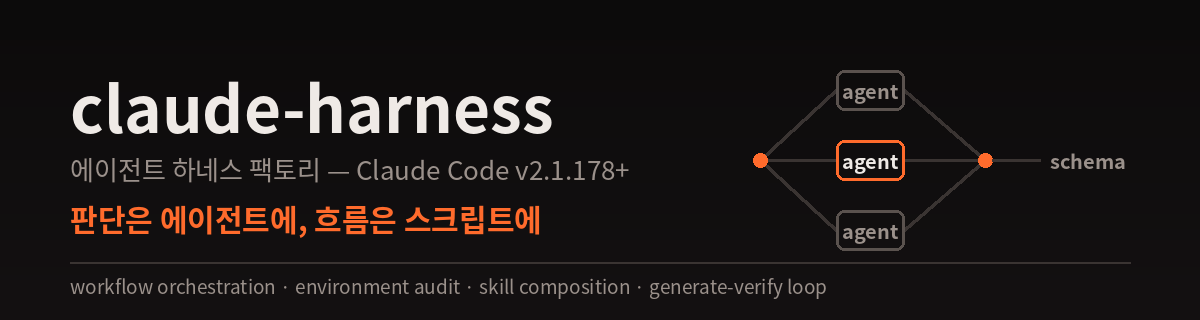
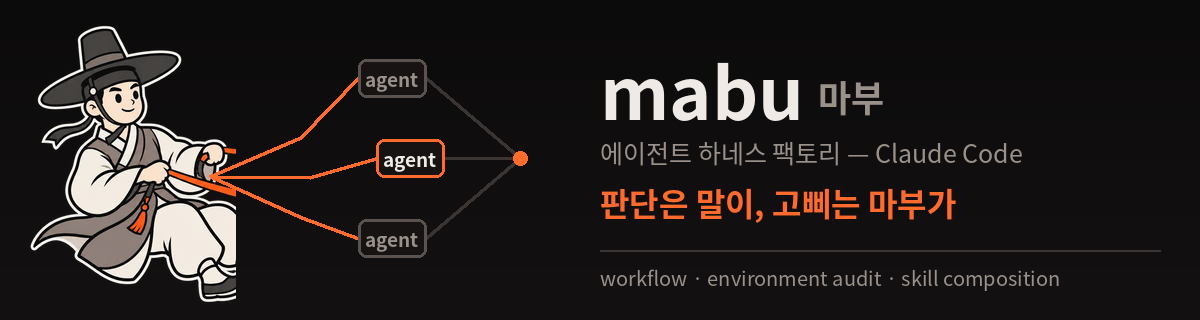
mabu(마부)로 개명 — 캐릭터·배너·매니페스트·버전 1.0.0
- 갓 쓴 마부 캐릭터(Codex ImageGen) + 고삐가 agent 노드로 이어지는 배너
- '왜 마부인가' 은유 표 (말=에이전트, 마구=정의+스킬, 고삐=Workflow)
- 독립 브랜드가 됐으므로 버전을 원본 계보(2.0.0)에서 1.0.0으로 리셋
- 라이선스는 Apache-2.0 유지 (파생 저작물 의무)

Claude-Session: https://claude.ai/code/session_01KgVDthUb1GHM29ixHH24zN

Changed region(s): [[0.0, 0.0625, 0.9558, 0.9375], [0.7708, 0.3438, 0.8017, 0.4375]]

diff --git a/README.md b/README.md
@@ -1,21 +1,35 @@
 <p align="center">
-  <img src="assets/banner.png" alt="claude-harness" width="720">
+  <img src="assets/banner.png" alt="mabu" width="760">
 </p>
 
 <p align="center">
-  <img src="https://img.shields.io/badge/Version-2.0.0-brightgreen.svg" alt="Version">
+  <img src="https://img.shields.io/badge/Version-1.0.0-brightgreen.svg" alt="Version">
   <a href="LICENSE"><img src="https://img.shields.io/badge/License-Apache_2.0-blue.svg" alt="License"></a>
   <img src="https://img.shields.io/badge/Claude_Code-%E2%89%A5_2.1.178-purple.svg" alt="Claude Code">
   <img src="https://img.shields.io/badge/Mode-Workflow_Orchestration-orange.svg" alt="Workflow">
   <img src="https://img.shields.io/badge/Composes-superpowers_·_paperthin_·_eli5_·_ponytail-teal.svg" alt="Skill Composition">
 </p>
 
-# claude-harness — Workflow 네이티브 에이전트 하네스 팩토리
+# mabu (마부) — 에이전트 하네스 팩토리
 
 > **"이 프로젝트에 하네스 만들어줘"** 한 문장이면, 도메인 설명이 에이전트 정의(`.claude/agents/`) +
 > 스킬(`.claude/skills/`) + **결정론적 Workflow 오케스트레이션 스크립트**(`workflows/`)로 바뀐다.
 
-## 핵심 관점 — 판단은 에이전트에, 흐름은 스크립트에
+## 왜 '마부'인가
+
+하네스(harness)는 원래 말에 채우는 **마구**다. 마구를 짓고, 말을 고르고, 고삐를 쥐는
+사람이 마부다. 이 도구가 하는 일이 정확히 그것이다.
+
+| 마부의 세계 | 이 도구 |
+|---|---|
+| 말 | 에이전트 — 힘과 판단은 말에게서 나온다 |
+| 마구(하네스) | 에이전트 정의 + 스킬 — 말의 힘을 일로 바꾸는 장구 |
+| 고삐 | Workflow 스크립트 — 순서·병렬·상한을 쥐는 손 |
+| 행선지 | 사용자의 요청 |
+
+마부는 말이 되려 하지 않는다. 달리는 건 말이고, 마부는 길을 정한다.
+
+## 핵심 관점 — 판단은 말이, 고삐는 마부가
 
 "누가 다음에 뭘 하나"를 모델 재량에 두면 실행마다 결과가 바뀐다. 이 하네스가 만드는
 오케스트레이션은 순서·병렬·루프 상한·산출물 스키마를 JavaScript가 강제하고, 모델은
@@ -76,21 +90,21 @@ Phase 7: 진화 (피드백 반영 + 변경 이력)
 ### 플러그인으로
 
 ```shell
-/plugin marketplace add ParkBeomMin/claude-harness
-/plugin install harness@claude-harness-marketplace
+/plugin marketplace add ParkBeomMin/mabu
+/plugin install mabu@mabu-marketplace
 ```
 
 ### 전역 스킬로 직접 설치
 
 ```shell
-git clone https://github.com/ParkBeomMin/claude-harness
-cp -r claude-harness/skills/harness ~/.claude/skills/   # 심볼릭 링크 말고 복사
+git clone https://github.com/ParkBeomMin/mabu
+cp -r mabu/skills/harness ~/.claude/skills/   # 심볼릭 링크 말고 복사
 ```
 
 ## 구조
 
 ```
-claude-harness/
+mabu/
 ├── .claude-plugin/
 │   ├── plugin.json                   # 플러그인 매니페스트
 │   └── marketplace.json
